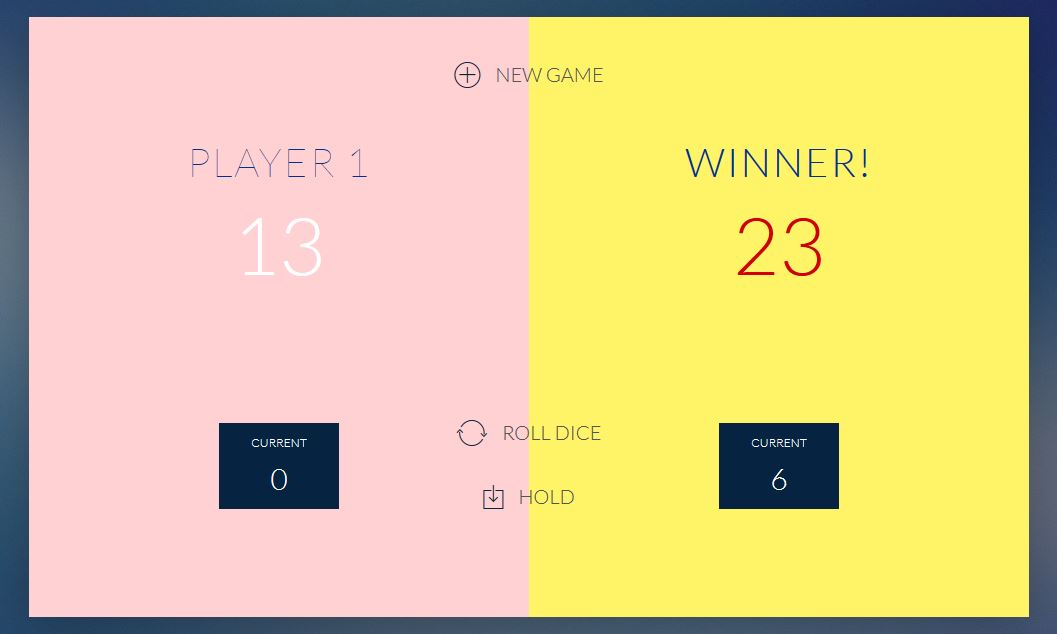
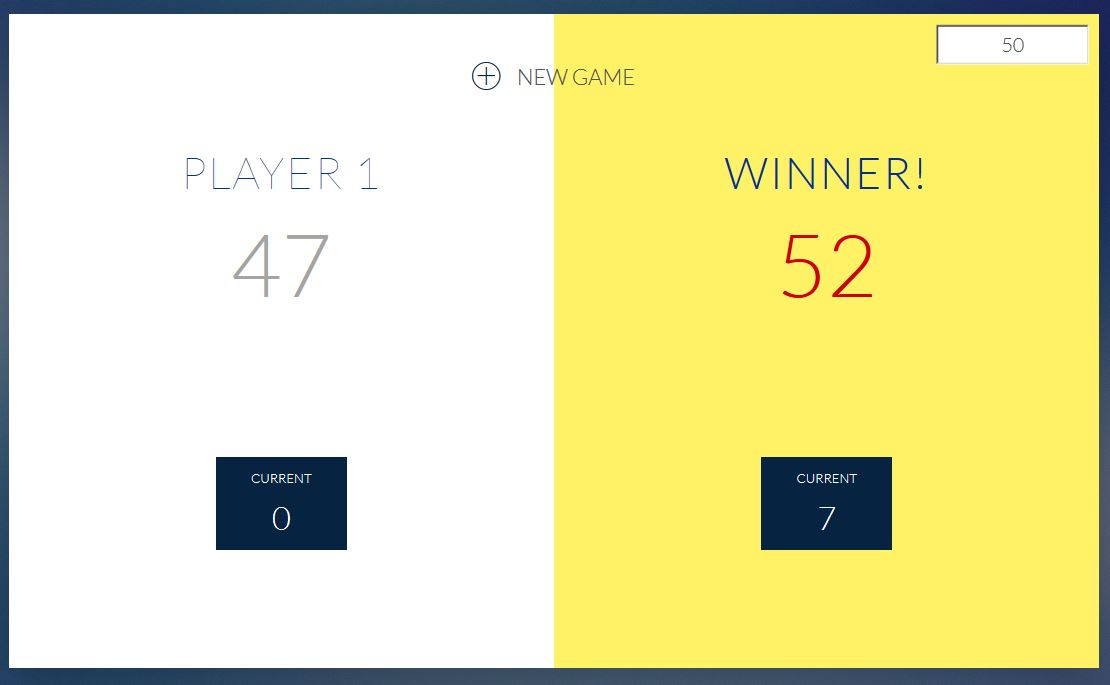
Adjusted winning score field field size and padding. Changed game colours (including dices) to be more readable. Updated screenshots with a new game look.

diff --git a/style.css b/style.css
@@ -31,7 +31,7 @@ body {
     top: 50%;
     left: 50%;
     transform: translate(-50%, -50%);
-    background-color: #FFD1D3;
+    background-color: #FFFFFF;
     box-shadow: 0px 10px 50px rgba(0, 0, 0, 0.3);
     overflow: hidden;
 }
@@ -85,15 +85,15 @@ i {
 .final-score 
 {
     position: absolute;
-    left: 67%;
+    left: 71%;
     transform: translateX(100%);
     top: 10px;
     color: #555;
     font-size: 18px;
     font-family: 'Lato';
     text-align: center;
-    padding: 10px;
-    width: 160px;
+    padding: 5px;
+    width: 140px;
     text-transform: uppercase;
 }
 
@@ -137,18 +137,19 @@ i {
     text-align: center;
     font-size: 80px;
     font-weight: 500;
-    color: #ffffff;
+    color: #A5A4A0;
     margin-bottom: 130px;
 }
 
-.active { background-color: #FF8C8F; }
+.active { background-color: #BCBCBC; }
 .active .player-name { font-weight: 500; }
+.active .player-score { color: #ffffff; }
 
 .active .player-name::after {
     content: "\2022";
     font-size: 47px;
     position: absolute;
-    color: #EADB38;
+    color: #1AAF2B;
     top: -7px;
     right: 10px;
     
@@ -174,6 +175,6 @@ i {
     font-size: 30px;
 }
 
-.winner { background-color: #FFF468;}
+.winner { background-color: #FFF266;}
 .winner .player-name { font-weight: 300; color: #00308f;}
 .winner .player-score {font-weight: 300; color: #d10000;}
